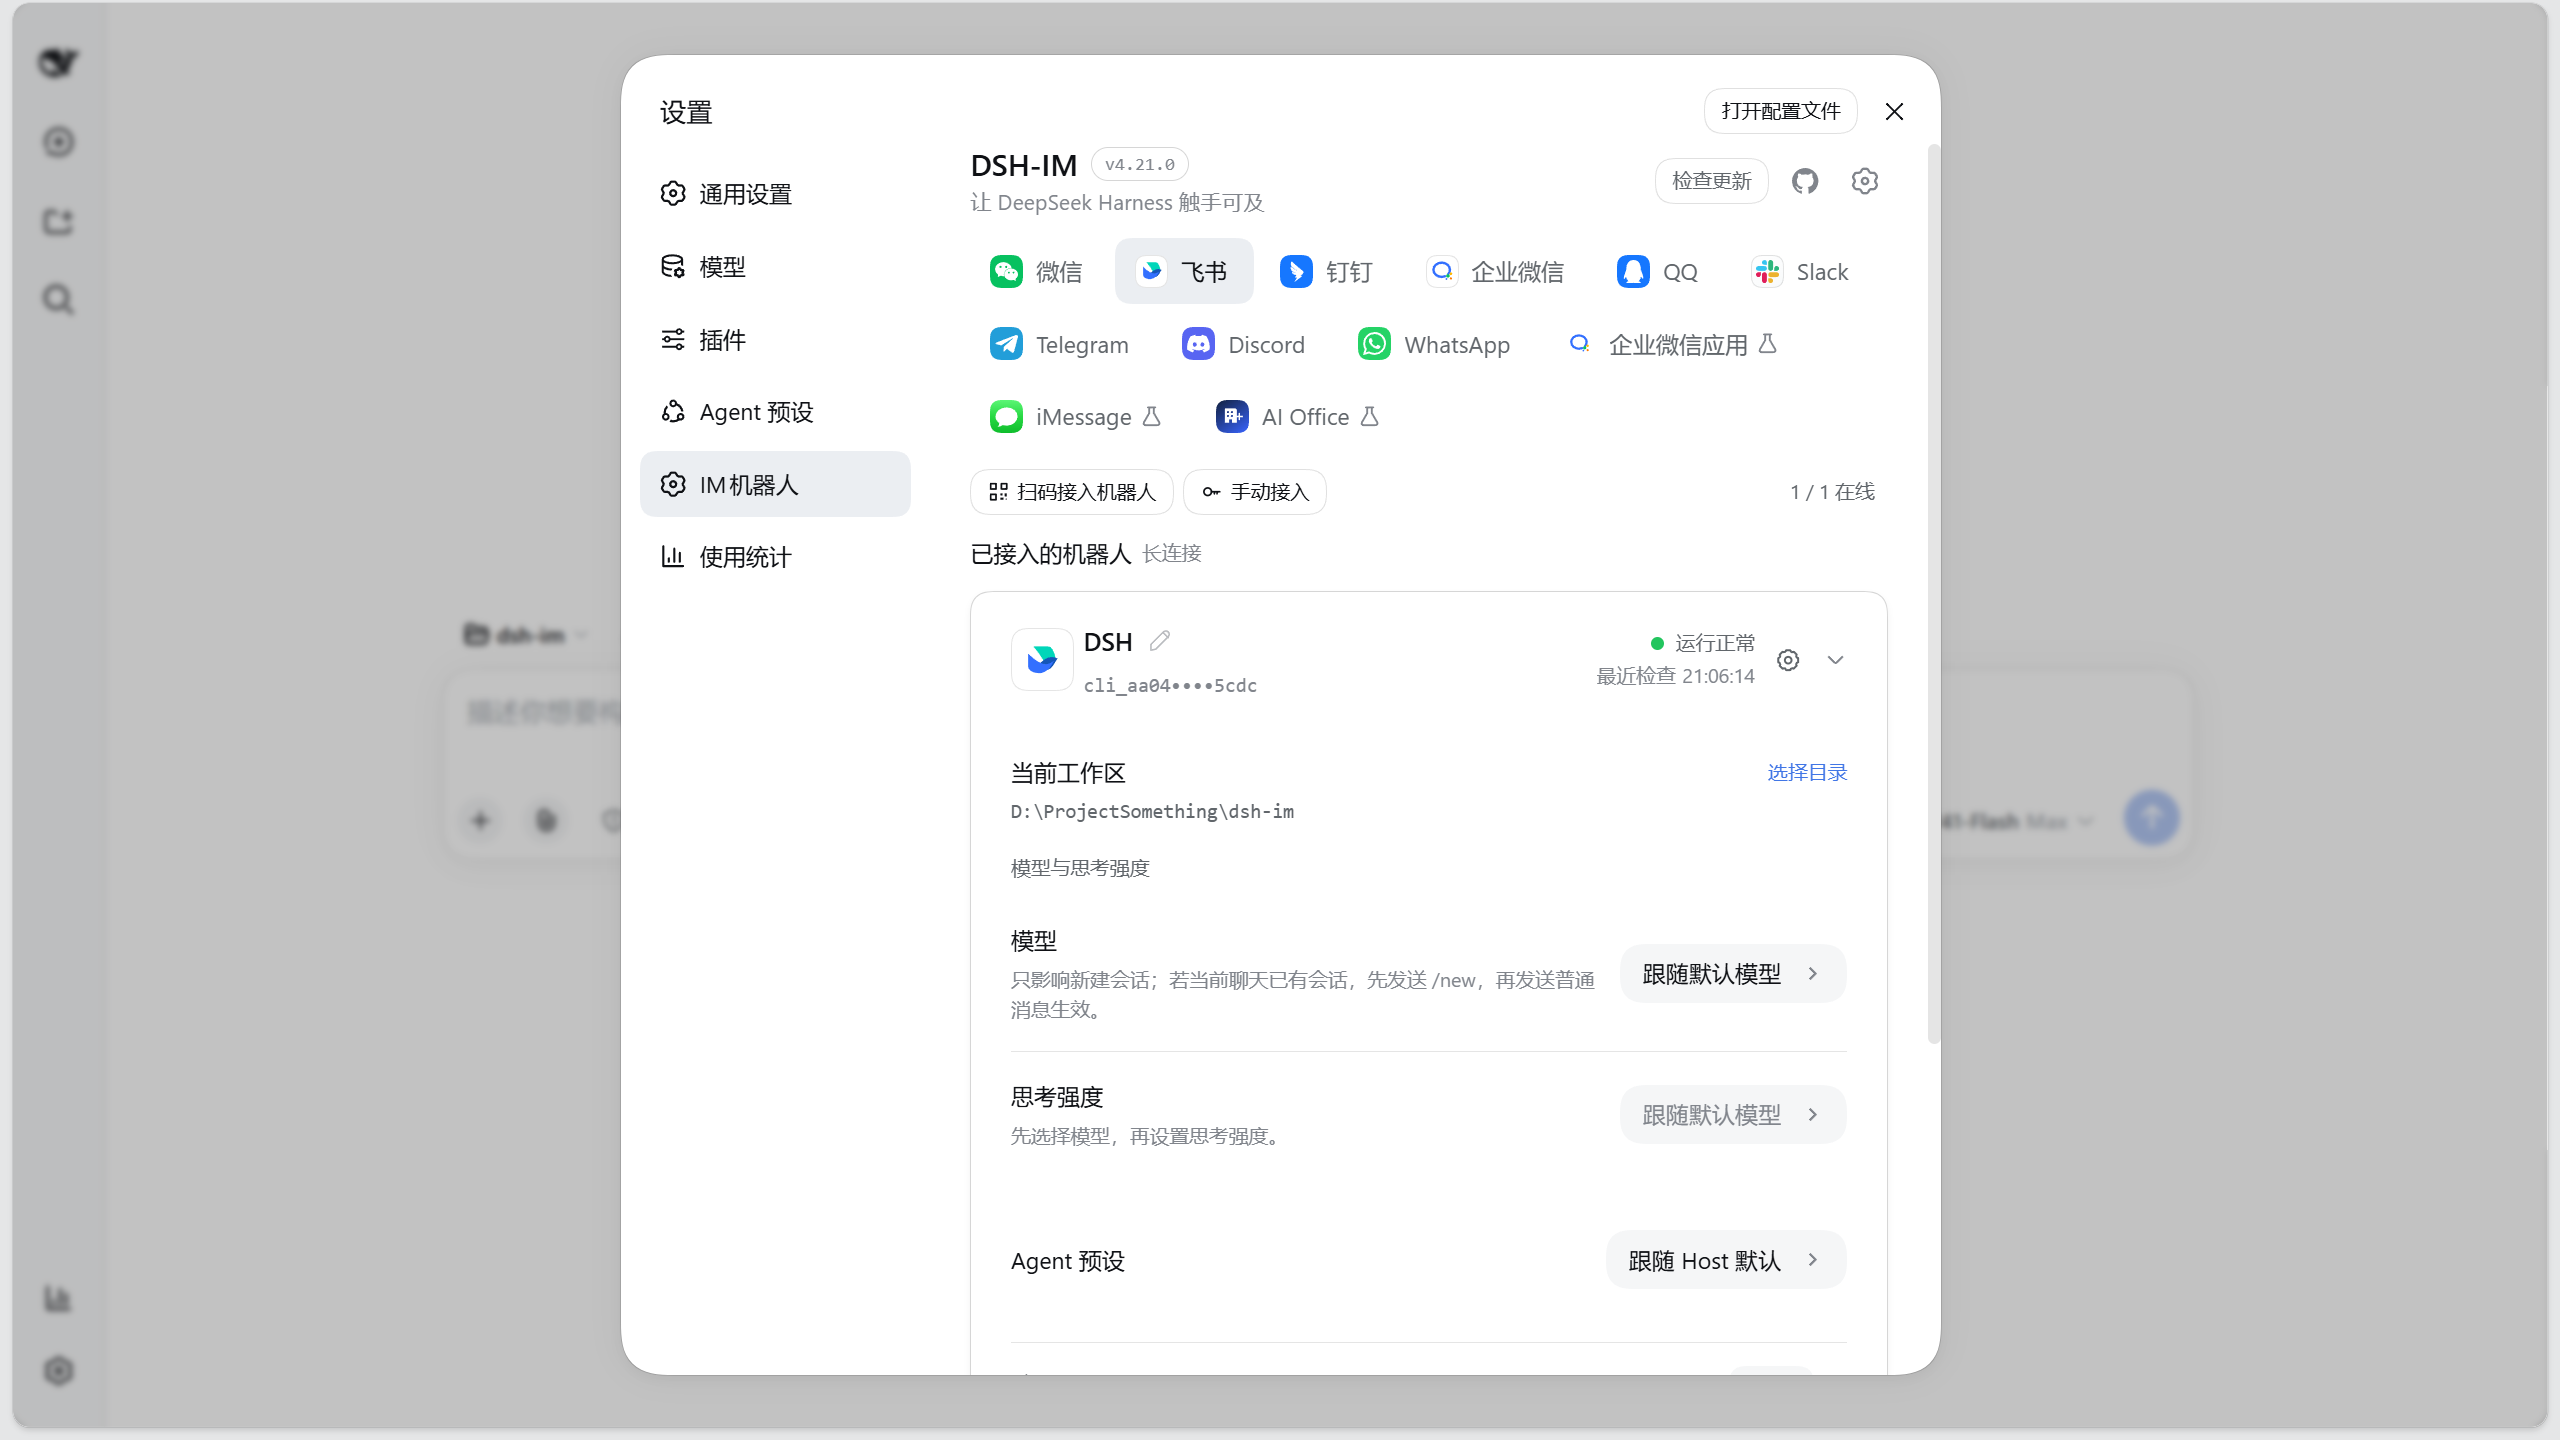
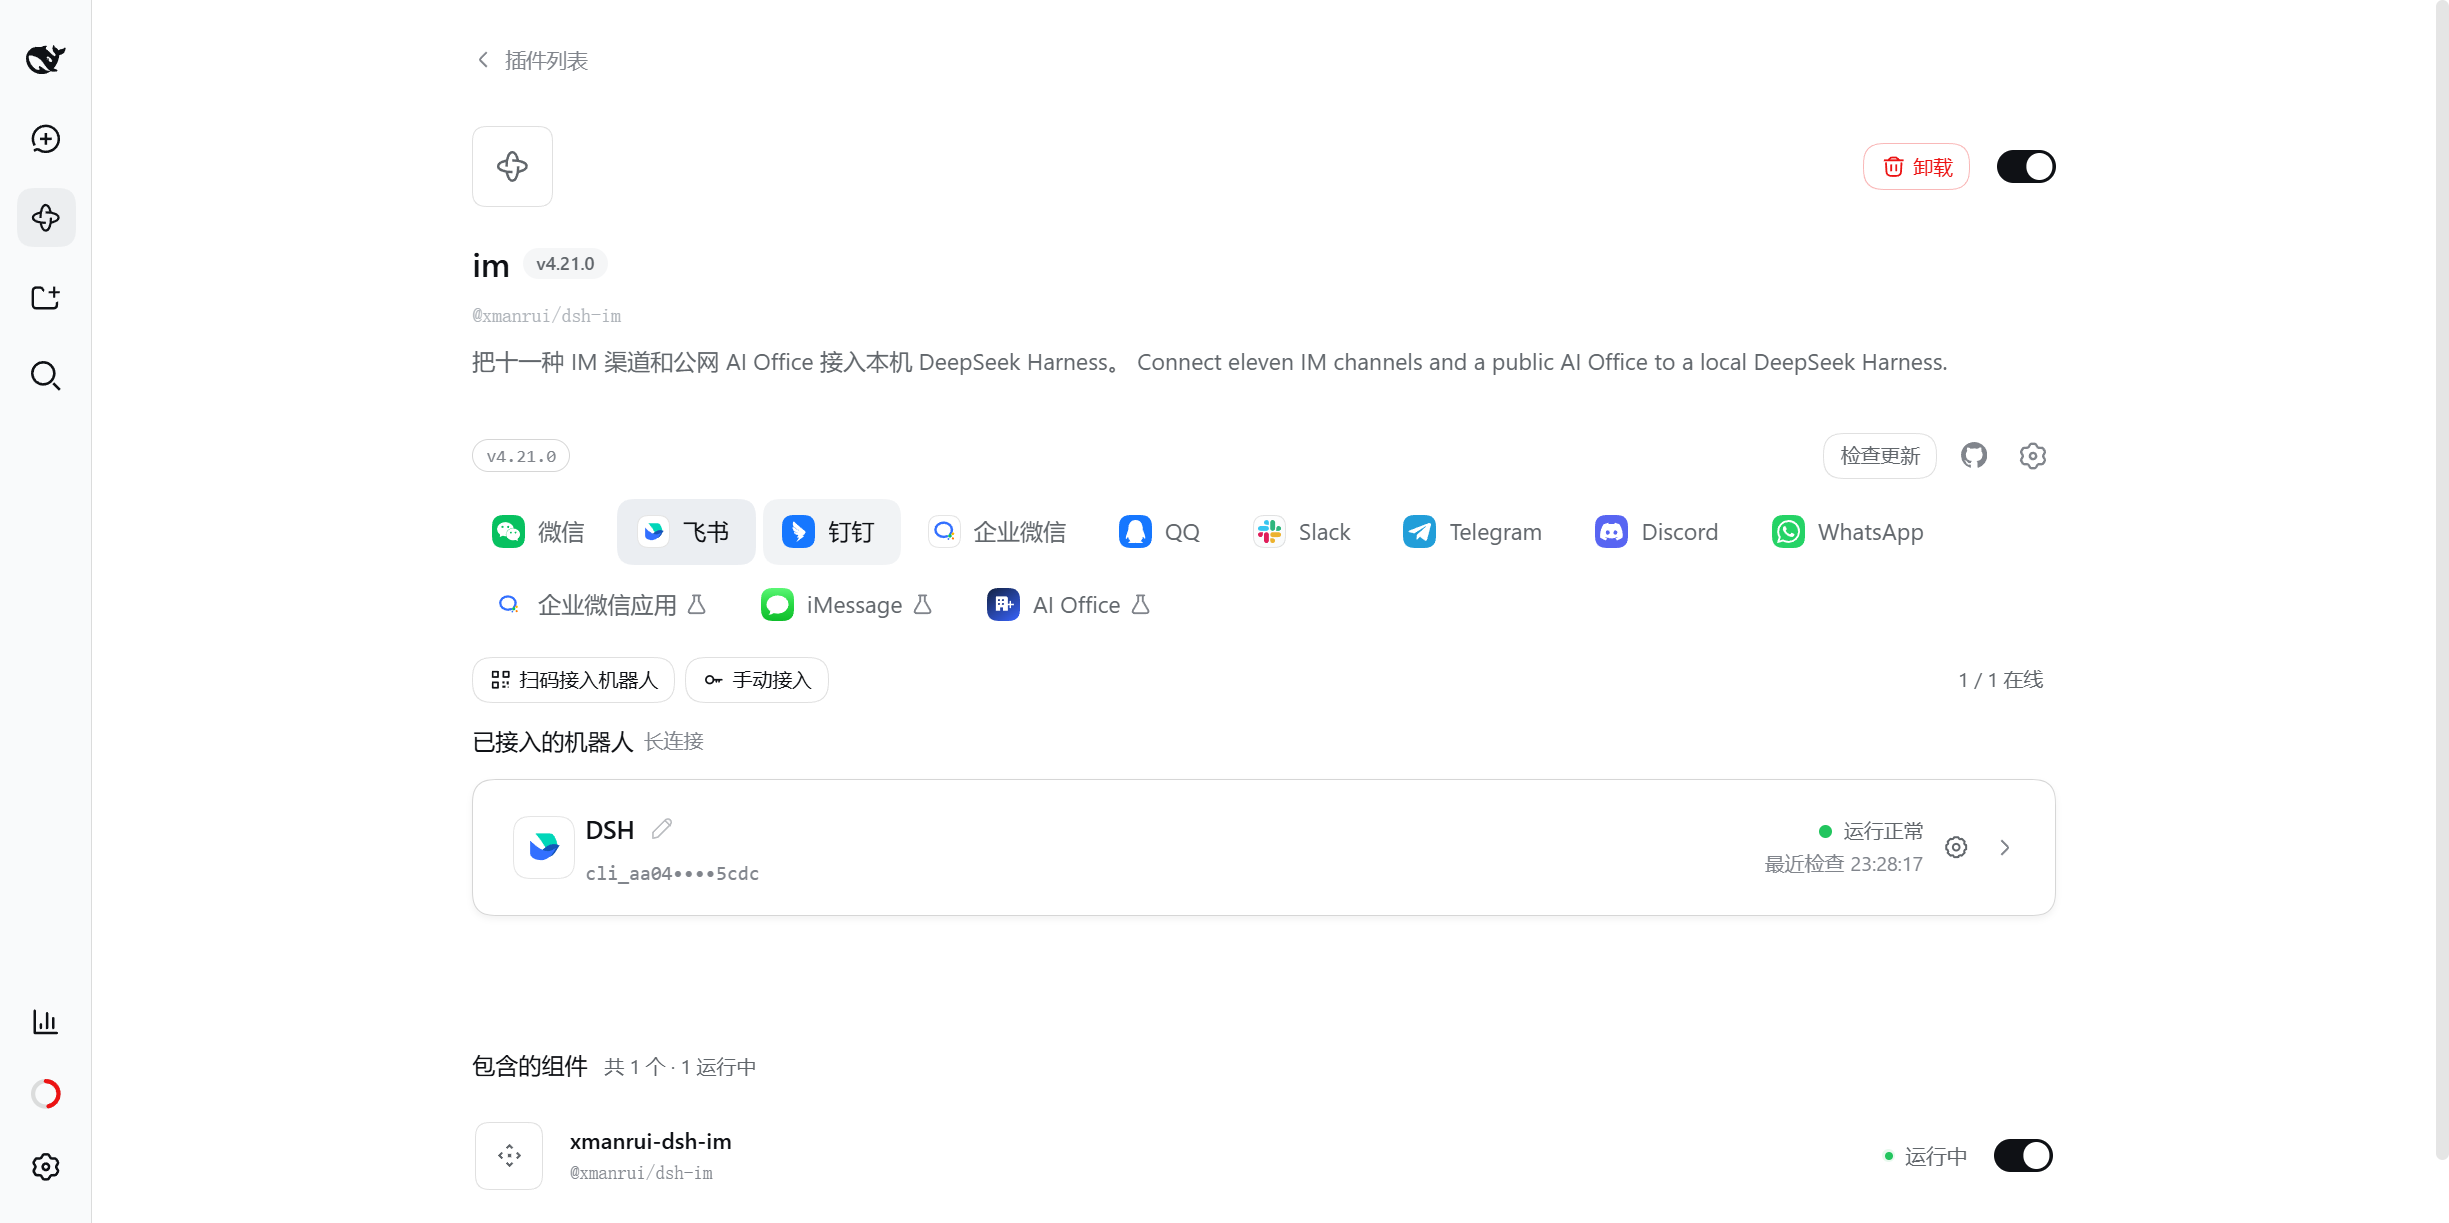
docs(images): reshot the README screenshots for the Plugins page
The configuration surface moved to plugins.bundle.config, so the six README

images still showed the Settings page. Reshot all six (zh + en) and added the

missing pair — docs/images/README.md and docs/images/AGENTS.md — which records

how to reshoot them instead of leaving that knowledge in the operator's head:

- Entry points: Plugins -> Installed -> @xmanrui/dsh-im, and the per-bot panels

- Privacy rule: collapse the left sidebar before the shutter (session titles

  and workspace names must not reach a README image); the sidebar-popover shot

  is the one exception and crops above the popover instead

- The viewport fact: shoot at the natural viewport (physical 2449x1223 =
  1484x741 CSS x dpr 1.65); forcing setViewportSize squeezes the density to 1
  and renders the UI at about 60% of its native size

- Element shots: unclip ancestors, then locator.screenshot writes the path

diff --git a/docs/images/AGENTS.md b/docs/images/AGENTS.md
@@ -1,0 +1,64 @@
+# docs/images/ — 规则层
+
+只讲**在这里要怎么干**；目录里有什么、被谁引用、图长什么样 → [README.md](README.md)。
+本仓目前没有根 `AGENTS.md`：产品语义与领域词汇以 [CONTEXT.md](../../CONTEXT.md) 为准，本文件只管这些门面图。
+
+## 什么时候必须重拍
+
+判据是「图里的界面有没有变」，不是「改了哪个文件」。
+
+必须重拍：
+
+- 详情页 `plugins.bundle.config` 槽里的配置区：字段增删、顺序、按钮、状态行
+- 「上下文增强」那一处的文案与控件形态
+- 「访问模式」对话框的标签页、卡片、选择行、底部按钮
+- 详情页的导航与文案：插件标题 / 描述 / 版本 / 频道 tab
+
+不必重拍：
+
+- 类型与注释（只活在编译期）
+- 行为等价的内部重构：抽常量、改名、等价重写
+- `README` / `CONTEXT` / 测试 / 构建配置
+- 二维码：与界面无关，只有群或账号换了才换
+
+拿不准时按「必须重拍」办：图的成本低于一张与界面不符的图。
+
+## 完成定义
+
+- 改渲染面的改动，**要么同批带重拍图，要么在 commit body 里写明为什么不重拍**。
+- 图与文案分成两个提交，会留下「文案已改、README 里的图还是旧的」的窗口。
+
+## 怎么重拍
+
+截图会改**全局设置**（界面语言），所以第 0 步是问，不是动手。
+
+0. **先问再动**，问的时候说清三件事，再等维护者确认：要占用浏览器几分钟；会临时切界面语言、结束切回；**截图期间请别改语言 / 主题 / 模型等全局设置** —— 它们直接进画面。
+1. **用自己的标签页**，不动维护者的标签页；结束时关掉。
+2. **开一个新会话**（隐私要求）：停在旧会话上，聊天区里就是正在进行的那段对话与工具调用。
+3. 进侧边栏 **Plugins → Installed → `@xmanrui/dsh-im`**（列表里的短名是 `im`，**不是**全包名；详情页判据是 `[data-plugin-name]` 显示全包名，配置段是 `[data-plugin-config]`）：
+   - `imbot*.png`：详情页**整屏** —— 面包屑、插件标题与版本、频道 tab 一排、机器人账号卡片。
+   - `Context_enhancement*.png`：**元素图** —— 点开「上下文增强」那一行后，对展开出来的那块取景。
+   - `access_mode*.png`：机器人「更多设置」→ 访问设置标签页，对**对话框**取景。
+4. **按快门前收起左侧栏**（隐私硬规则，独立一步）：展开的左侧栏列的是维护者真实的**会话标题与工作区名** —— 那是别人的工作内容，不是装饰，门面图不能带出去。
+   收起状态下点不到 `Plugins`，所以顺序是死的：**展开导航 → 走到目标画面 → 收起侧栏 → 按快门**，不能图省事一开始就收。
+5. **长元素先解裁剪，再做元素截图**：从锚点往上把 `overflow` 清成 `visible`、`max-height` 清成 `none`，直到 `body`；再对**最小祖先**做元素级截图。
+6. **语言**：界面当前是 English —— 先拍全部 `_en`，再切成中文拍中文版，最后**切回 English**。切语言会让页面重载，切完重新走一遍第 3、4 步。
+7. **交还**：关掉自己的标签页 → 把当前会话切回维护者原来那个 → 告诉他可以用了。
+
+## 已知约束（重拍实测）
+
+- **整屏图不要设置 viewport**：用**自然视口**拍，产出的物理尺寸自然就是 **2449x1223**（CSS 视口 1484x741 × devicePixelRatio 1.65）。
+  **不要 `setViewportSize(2449, 1223)`** —— 它会把 dpr 压成 1，界面只剩原生约 60%，维护者那句「界面缩小了」说的就是这个。
+- **devicePixelRatio 本来就是 1.65**：不要去动它，也不要把它压成 1。靠 CDP 改密度那条路被 TabbitDance 拒（`Command rejected`），1.65 是唯一正常值，2x 不可得。
+- **只有拍长元素时才临时调 viewport，且只调高度**（宽度不要动），拍完立刻还原。
+- **落盘一律绝对路径**：运行器里 `process.env.TEMP` 是 `undefined`，相对路径会写进浏览器安装目录，事后很难找回来。
+- **两种截图的落点不同**：`locator.screenshot({ path })` 是原生 Playwright，**照写你给的路径**；`page.screenshot()` 会被浏览器运行时接管，落到它的 artifacts 目录，真实路径只在返回值里。
+- 每次提交是全新作用域，**元素都要重新定位**；切语言、切页面之后尤其如此。
+
+## 验收
+
+- **每张都用 `read_image` 亲自看**，不要只看文件大小
+- 语言正确：`_en` 图里是英文，其余是中文；三组各两张除语言外构图一致
+- **画面里左侧栏是收起态**：看不到任何会话标题、工作区名或对话内容
+- 不出现真实凭据、真实 Base URL、真实聊天对象标识（掩码形态可接受）
+- 文件确实被两份 README 引用（覆盖后跑一次链接校验）

diff --git a/docs/images/README.md b/docs/images/README.md
@@ -1,0 +1,39 @@
+# docs/images/ — 门面图
+
+两份 README 引用的界面实拍与二维码都住在这里；重拍判据、步骤与验收见 [AGENTS.md](AGENTS.md)。
+
+## 文件与引用面
+
+| 文件 | 是什么 | 被谁引用 |
+| --- | --- | --- |
+| `imbot.png` / `imbot_en.png` | IM 机器人页的整屏实拍（中 / 英） | [README.md](../../README.md) · [README.en.md](../../README.en.md) 的「界面」段 |
+| `Context_enhancement.png` / `Context_enhancement_en.png` | 「上下文增强」那一处的元素图（中 / 英） | 同上，与访问模式那张并排一行 |
+| `access_mode.png` / `access_mode_en.png` | 「访问模式」对话框的元素图（中 / 英） | 同上 |
+| `wecom.png` · `weixin.jpg` · `xhs.jpg` · `WhatsApp.jpg` | 企业微信群 / 微信 / 小红书 / WhatsApp 二维码 | 两份 README 的「联系方式」表（点开看大图） |
+
+- 三组界面图**中英各一套**，只有界面语言不同：中文 README 引中文那套，英文 README 引 `_en` 那套。
+- 界面图渲染在详情页的**描述与行列表之间**（宿主 `plugins.bundle.config` 槽），所以图里应当能看到插件的标题与描述。
+- 换图不动 `width`（整屏那张满宽、并排两张各 `49%`、二维码 `240`），只有改名才要同步两份 README。
+- `docs/` **不在 [package.json](../../package.json) 的 `files` 里**：图不进 npm 包；但 npm 页面的 README 图指向仓库默认分支的原始地址 —— **换图等于同时改线上所有版本的展示**。
+
+## 风格基准
+
+新图与现有图保持一致；要不要换风格是维护者的决定，截图的人不自行改。
+
+| 项 | 基准 |
+| --- | --- |
+| 尺寸 | 整屏图**不设 viewport**，用自然视口拍 —— 物理产物自然就是 **2449x1223**（CSS 1484x741 × dpr 1.65）；**别调 `setViewportSize`**，那会压掉 dpr、界面缩到约 60%。元素图按内容取景，中英两张一致 |
+| 侧边栏 | **画面里带左侧栏的整屏 / 宽幅图，按快门前必须收起左侧栏** |
+| 背景 | 空会话 |
+| 主题 | 浅色 |
+| 界面语言 | 一份英文一份中文，除语言外画面完全一致 |
+
+**侧栏为什么必须收起**：展开的左侧栏列的是维护者真实的**会话标题与工作区名** —— 那是别人的工作内容，不是装饰；门面图是给外人看的，带出去就是泄露。
+收起状态下点不到 `Plugins`，所以顺序也是死的：**展开导航 → 走到目标画面 → 收起侧栏 → 按快门**（见 [AGENTS.md](AGENTS.md) 第 4 步）。
+元素图（对话框、行内展开）的取景里没有侧栏，不受这条约束。
+
+## 变更影响路由
+
+- 改界面渲染面（文案 / 结构 / 样式 / 可见状态）→ **必须同批重拍**受影响的那组图，中英一起。
+- 换图本身 → 两份 README 无需改；只有文件改名才要同步两份 README 与本目录两份文档。
+- 二维码换了 → 只换文件，两份 README 不动。
